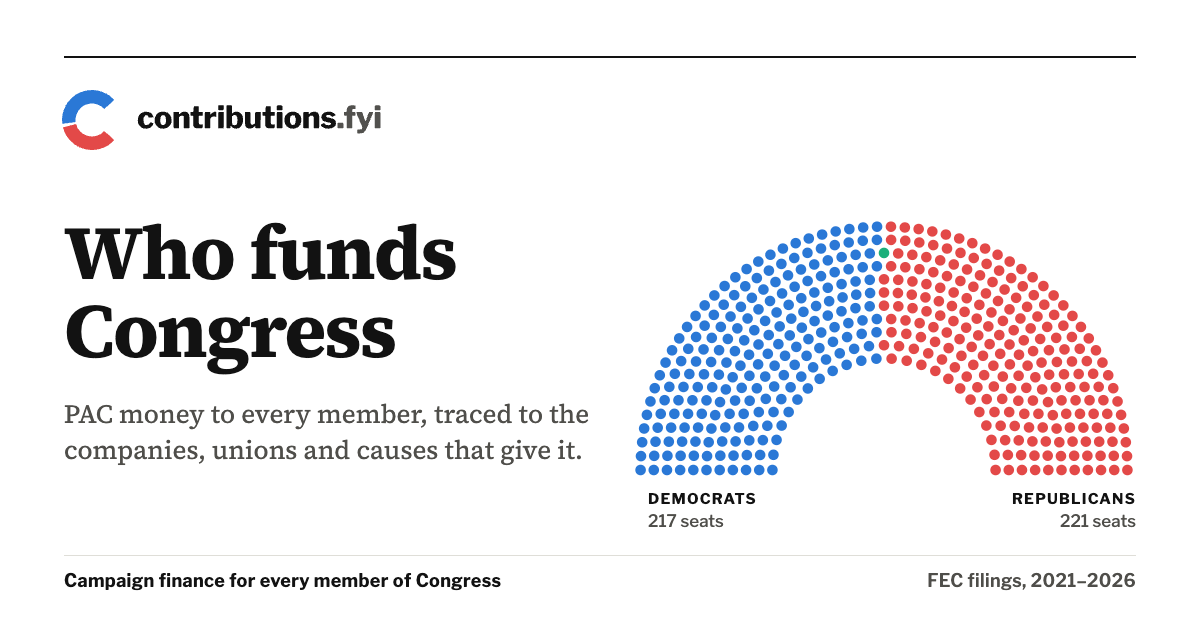
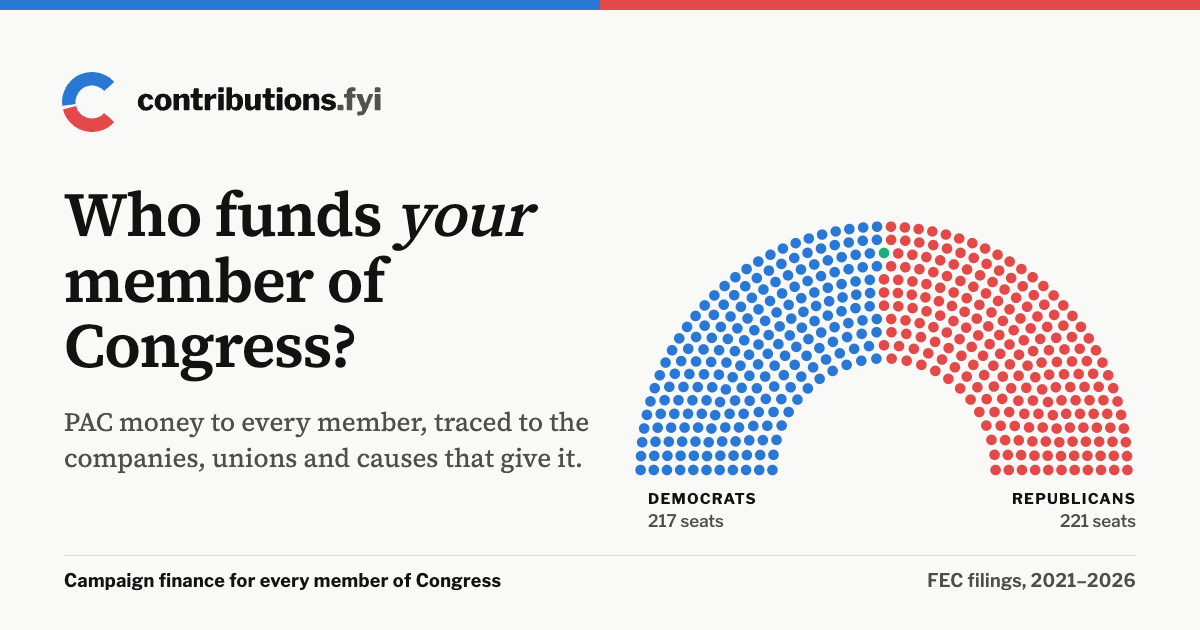
Rebrand the site as contributions.fyi
The brand is contributions.fyi; "Who funds your member of Congress?" (the
Bluesky banner's line) is the tagline.

- Home hero: the tagline as the headline, "your" in italics; the home title
  and Open Graph/Twitter titles and description lead with it.
- Footer: the Donut C wordmark and tagline, and a link to the labeler,
  @contributions.fyi.
- Look and feel from the Bluesky banner and avatar: the blue/red split rule
  along the top of the masthead, the banner's off-white page, and black
  single-series bars like its sector chart (PAC money beside a mid-gray
  second series on member pages). Party colors re-validated on the new page
  colour; text tokens all clear AA.
- The 1200×630 card gets the split rule, off-white and the tagline.

diff --git a/design/og/og-card.html b/design/og/og-card.html
@@ -10,24 +10,25 @@
 @font-face { font-family: "Source Serif 4"; src: url("../../site/public/fonts/source-serif-4-latin-wght-normal.woff2") format("woff2-variations"); font-weight: 200 900; }
 @font-face { font-family: "Libre Franklin"; src: url("../../site/public/fonts/libre-franklin-latin-wght-normal.woff2") format("woff2-variations"); font-weight: 100 900; }
 * { margin: 0; box-sizing: border-box; }
-body { width: 1200px; height: 630px; background: #ffffff; color: #121212; position: relative; overflow: hidden; font-family: "Libre Franklin", Arial, sans-serif; }
-.rules { position: absolute; left: 64px; right: 64px; top: 56px; border-top: 2px solid #121212; box-shadow: 0 4px 0 -3px #121212; }
-.wordmark { position: absolute; left: 60px; top: 88px; height: 64px; width: auto; }
-h1 { position: absolute; left: 64px; top: 214px; width: 560px; font: 700 76px/1.02 "Source Serif 4", Georgia, serif; letter-spacing: -0.02em; }
-.dek { position: absolute; left: 64px; top: 396px; width: 540px; font: 400 26px/1.4 "Source Serif 4", Georgia, serif; color: #4f4e4a; }
+body { width: 1200px; height: 630px; background: #f9f9f7; color: #121212; position: relative; overflow: hidden; font-family: "Libre Franklin", Arial, sans-serif; }
+.split { position: absolute; left: 0; right: 0; top: 0; height: 10px; background: linear-gradient(90deg, #2a78d6 0 50%, #e34948 50% 100%); }
+.wordmark { position: absolute; left: 60px; top: 70px; height: 64px; width: auto; }
+h1 { position: absolute; left: 64px; top: 182px; width: 560px; font: 600 62px/1.06 "Source Serif 4", Georgia, serif; letter-spacing: -0.015em; }
+h1 em { font-style: italic; font-weight: 500; }
+.dek { position: absolute; left: 64px; top: 404px; width: 540px; font: 400 26px/1.4 "Source Serif 4", Georgia, serif; color: #4f4e4a; }
 .foot { position: absolute; left: 64px; right: 64px; bottom: 40px; padding-top: 16px; border-top: 1px solid #dfded8; display: flex; justify-content: space-between; font: 600 18px/1 "Libre Franklin", Arial, sans-serif; color: #4f4e4a; letter-spacing: 0.02em; }
 .foot b { color: #121212; font-weight: 700; }
 #seats { position: absolute; right: 56px; top: 210px; }
 .label { position: absolute; top: 492px; font: 700 15px/1 "Libre Franklin", Arial, sans-serif; letter-spacing: 0.08em; text-transform: uppercase; color: #121212; }
 .label span { display: block; margin-top: 6px; font-weight: 500; letter-spacing: 0; text-transform: none; font-size: 17px; color: #4f4e4a; }
 </style></head><body>
-<div class="rules"></div>
+<div class="split"></div>
 <svg class="wordmark" xmlns="http://www.w3.org/2000/svg" viewBox="-4 -4 645 128" role="img" aria-label="contributions.fyi">
 
 <path fill="#e34948" d="M104.59 100.15A60 60 0 0 1 1.85 74.78L28.02 68.13A33 33 0 0 0 84.52 82.08Z"/><path fill="#2a78d6" d="M0.48 67.58A60 60 0 0 1 104.59 19.85L84.52 37.92A33 33 0 0 0 27.26 64.17Z"/><path fill="#121212" d="M168.48 43.26L168.48 43.26Q172.69 43.26 175.67 44.78Q178.64 46.30 180.44 48.59Q182.24 50.89 182.86 53.24L182.86 53.24Q183.11 53.99 182.80 54.36L182.80 54.36Q182.55 54.73 181.87 54.73L181.87 54.73L174.37 55.23Q173.56 55.35 173.37 54.48L173.37 54.48Q173.00 53.49 172.54 52.53Q172.07 51.57 171.17 50.95Q170.27 50.33 168.79 50.33L168.79 50.33Q166.99 50.33 165.62 51.38Q164.26 52.44 163.52 54.64Q162.77 56.84 162.77 60.31L162.77 60.31Q162.77 63.84 163.58 66.11Q164.38 68.37 165.87 69.39Q167.36 70.42 169.34 70.42L169.34 70.42Q171.95 70.42 173.34 68.99Q174.74 67.56 176.04 65.33L176.04 65.33Q176.16 65.08 176.41 64.99Q176.66 64.90 177.22 65.02L177.22 65.02L182.43 66.14Q182.67 66.20 182.86 66.39L182.86 66.39Q183.11 66.70 182.92 67.44L182.92 67.44Q182.55 68.68 181.56 70.39Q180.57 72.09 178.86 73.67Q177.16 75.25 174.58 76.31Q172.01 77.36 168.48 77.36L168.48 77.36Q163.58 77.36 159.76 75.22Q155.95 73.08 153.78 69.27Q151.61 65.46 151.61 60.43L151.61 60.43Q151.61 55.29 153.81 51.44Q156.01 47.60 159.83 45.43Q163.64 43.26 168.48 43.26ZM202.14 77.36L202.14 77.36Q197.12 77.36 193.31 75.19Q189.49 73.02 187.35 69.21Q185.22 65.39 185.22 60.50L185.22 60.50Q185.22 55.29 187.45 51.41Q189.68 47.54 193.52 45.40Q197.37 43.26 202.20 43.26L202.20 43.26Q207.29 43.26 211.10 45.49Q214.91 47.72 217.05 51.60Q219.19 55.47 219.19 60.50L219.19 60.50Q219.19 65.39 217.02 69.21Q214.85 73.02 211.04 75.19Q207.23 77.36 202.14 77.36L202.14 77.36ZM202.20 70.17L202.20 70.17Q204.19 70.17 205.49 69.11Q206.79 68.06 207.41 65.83Q208.03 63.60 208.03 60.25L208.03 60.25Q208.03 56.84 207.38 54.61Q206.73 52.37 205.46 51.29Q204.19 50.20 202.20 50.20L202.20 50.20Q200.28 50.20 198.95 51.29Q197.62 52.37 197.00 54.61Q196.38 56.84 196.38 60.25L196.38 60.25Q196.38 63.66 197.00 65.86Q197.62 68.06 198.95 69.11Q200.28 70.17 202.20 70.17L202.20 70.17ZM232.34 76.74L224.65 76.74Q223.16 76.74 223.16 75.31L223.16 75.31L223.16 45.18Q223.16 43.88 224.21 43.88L224.21 43.88L233.02 43.88Q234.07 43.88 234.07 45.00L234.07 45.00L234.07 47.97Q234.07 48.34 234.26 48.44Q234.44 48.53 234.82 48.22L234.82 48.22Q236.24 46.73 237.85 45.62Q239.47 44.50 241.23 43.88Q243.00 43.26 244.98 43.26L244.98 43.26Q249.39 43.26 252.08 45.96Q254.78 48.65 254.78 53.18L254.78 53.18L254.78 75.07Q254.78 76.74 253.04 76.74L253.04 76.74L245.05 76.74Q244.30 76.74 244.02 76.43Q243.74 76.12 243.74 75.31L243.74 75.31L243.74 54.73Q243.74 52.99 242.72 52.06Q241.70 51.13 239.84 51.13L239.84 51.13Q238.72 51.13 237.76 51.51Q236.80 51.88 235.93 52.65Q235.06 53.43 234.20 54.61L234.20 54.61L234.20 75.13Q234.20 76.74 232.34 76.74L232.34 76.74ZM280.26 51.38L274.12 51.38Q273.38 51.38 273.38 52.13L273.38 52.13L273.38 65.52Q273.38 67.38 274.40 68.25Q275.43 69.11 277.66 69.11L277.66 69.11L280.63 69.11Q281.07 69.11 281.35 69.46Q281.63 69.80 281.63 70.23L281.63 70.23L281.56 74.69Q281.56 76.00 279.95 76.31L279.95 76.31Q278.77 76.49 277.41 76.59Q276.05 76.68 274.71 76.71Q273.38 76.74 272.08 76.74L272.08 76.74Q267.74 76.74 265.04 74.66Q262.34 72.59 262.34 68.62L262.34 68.62L262.34 52.44Q262.34 51.38 261.48 51.38L261.48 51.38L258.13 51.38Q256.76 51.38 256.76 50.14L256.76 50.14L256.76 44.93Q256.76 43.88 258.00 43.88L258.00 43.88L261.97 43.88Q262.59 43.88 262.65 43.20L262.65 43.20L263.58 33.90Q263.71 32.72 264.64 32.72L264.64 32.72L272.57 32.72Q273.69 32.72 273.69 33.96L273.69 33.96L273.69 43.20Q273.69 43.82 274.31 43.82L274.31 43.82L280.45 43.82Q281.69 43.82 281.69 44.87L281.69 44.87L281.69 50.14Q281.69 51.38 280.26 51.38L280.26 51.38ZM294.89 76.74L287.21 76.74Q286.34 76.74 286.03 76.40Q285.72 76.06 285.72 75.31L285.72 75.31L285.72 45.18Q285.72 43.88 286.77 43.88L286.77 43.88L295.33 43.88Q296.32 43.88 296.32 45.00L296.32 45.00L296.32 48.59Q296.32 49.03 296.66 49.12Q297.00 49.21 297.31 48.78L297.31 48.78Q298.43 47.17 299.98 45.93Q301.53 44.69 303.26 43.97Q305.00 43.26 306.43 43.26L306.43 43.26Q308.72 43.26 308.72 44.44L308.72 44.44L308.72 52.75Q308.72 53.37 308.41 53.55L308.41 53.55Q308.16 53.80 307.60 53.68L307.60 53.68Q306.36 53.37 304.97 53.21Q303.57 53.06 302.77 53.06L302.77 53.06Q301.65 53.06 300.60 53.46Q299.54 53.86 298.64 54.54Q297.75 55.23 297.25 56.09Q296.75 56.96 296.75 57.83L296.75 57.83L296.75 75.13Q296.75 76.74 294.89 76.74L294.89 76.74ZM323.48 45.06L323.48 75.07Q323.48 76.00 323.04 76.37Q322.61 76.74 321.62 76.74L321.62 76.74L313.93 76.74Q313.06 76.74 312.75 76.40Q312.44 76.06 312.44 75.31L312.44 75.31L312.44 45.18Q312.44 43.88 313.56 43.88L313.56 43.88L322.42 43.88Q323.48 43.88 323.48 45.06L323.48 45.06ZM323.54 31.98L323.54 38.86Q323.54 40.53 321.62 40.53L321.62 40.53L313.87 40.53Q313.00 40.53 312.69 40.16Q312.38 39.79 312.38 39.04L312.38 39.04L312.38 32.10Q312.38 30.74 313.49 30.74L313.49 30.74L322.42 30.74Q323.54 30.74 323.54 31.98L323.54 31.98ZM335.07 76.74L330.36 76.74Q329.43 76.74 329.12 76.40Q328.81 76.06 328.81 75.31L328.81 75.31L328.81 32.04Q328.81 30.74 329.92 30.74L329.92 30.74L338.79 30.74Q339.84 30.74 339.84 31.98L339.84 31.98L339.84 46.11Q339.84 46.86 340.18 46.92Q340.53 46.98 340.96 46.61L340.96 46.61Q342.14 45.49 343.41 44.78Q344.68 44.07 346.14 43.66Q347.59 43.26 349.21 43.26L349.21 43.26Q353.36 43.26 356.21 45.34Q359.06 47.41 360.58 51.20Q362.10 54.98 362.10 60.06L362.10 60.06Q362.10 67.94 358.44 72.65Q354.79 77.36 348.03 77.36L348.03 77.36Q345.92 77.36 344.09 76.68Q342.26 76.00 340.80 74.82Q339.35 73.64 338.23 72.28L338.23 72.28Q337.98 71.97 337.80 72.03Q337.61 72.09 337.49 72.46L337.49 72.46L336.62 75.38Q336.25 76.74 335.07 76.74L335.07 76.74ZM339.84 52.99L339.84 65.33Q339.84 67.01 340.53 68.25Q341.21 69.49 342.42 70.14Q343.63 70.79 345.05 70.79L345.05 70.79Q346.91 70.79 348.21 69.77Q349.52 68.74 350.23 66.42Q350.94 64.09 350.94 60.31L350.94 60.31Q350.94 54.73 349.48 52.41Q348.03 50.08 345.30 50.08L345.30 50.08Q343.63 50.08 342.26 50.89Q340.90 51.69 339.84 52.99L339.84 52.99ZM380.58 69.55L380.58 69.55Q382.19 69.55 383.65 68.68Q385.10 67.81 386.22 66.45L386.22 66.45L386.22 45.49Q386.22 43.88 388.08 43.88L388.08 43.88L395.89 43.88Q397.38 43.88 397.38 45.37L397.38 45.37L397.13 75.50Q397.13 76.74 396.08 76.74L396.08 76.74L387.46 76.74Q386.41 76.74 386.41 75.62L386.41 75.62L386.41 72.71Q386.41 72.34 386.22 72.25Q386.03 72.15 385.72 72.46L385.72 72.46Q383.37 75.00 380.79 76.18Q378.22 77.36 375.25 77.36L375.25 77.36Q372.52 77.36 370.41 76.15Q368.30 74.94 367.06 72.65Q365.82 70.35 365.82 67.19L365.82 67.19L365.82 45.55Q365.82 43.88 367.56 43.88L367.56 43.88L375.56 43.88Q376.86 43.88 376.86 45.37L376.86 45.37L376.86 65.83Q376.86 67.56 377.88 68.56Q378.90 69.55 380.58 69.55L380.58 69.55ZM424.29 51.38L418.15 51.38Q417.41 51.38 417.41 52.13L417.41 52.13L417.41 65.52Q417.41 67.38 418.43 68.25Q419.45 69.11 421.68 69.11L421.68 69.11L424.66 69.11Q425.09 69.11 425.37 69.46Q425.65 69.80 425.65 70.23L425.65 70.23L425.59 74.69Q425.59 76.00 423.98 76.31L423.98 76.31Q422.80 76.49 421.44 76.59Q420.07 76.68 418.74 76.71Q417.41 76.74 416.10 76.74L416.10 76.74Q411.76 76.74 409.07 74.66Q406.37 72.59 406.37 68.62L406.37 68.62L406.37 52.44Q406.37 51.38 405.50 51.38L405.50 51.38L402.15 51.38Q400.79 51.38 400.79 50.14L400.79 50.14L400.79 44.93Q400.79 43.88 402.03 43.88L402.03 43.88L406.00 43.88Q406.62 43.88 406.68 43.20L406.68 43.20L407.61 33.90Q407.73 32.72 408.66 32.72L408.66 32.72L416.60 32.72Q417.72 32.72 417.72 33.96L417.72 33.96L417.72 43.20Q417.72 43.82 418.34 43.82L418.34 43.82L424.47 43.82Q425.71 43.82 425.71 44.87L425.71 44.87L425.71 50.14Q425.71 51.38 424.29 51.38L424.29 51.38ZM440.78 45.06L440.78 75.07Q440.78 76.00 440.35 76.37Q439.91 76.74 438.92 76.74L438.92 76.74L431.23 76.74Q430.36 76.74 430.05 76.40Q429.74 76.06 429.74 75.31L429.74 75.31L429.74 45.18Q429.74 43.88 430.86 43.88L430.86 43.88L439.73 43.88Q440.78 43.88 440.78 45.06L440.78 45.06ZM440.84 31.98L440.84 38.86Q440.84 40.53 438.92 40.53L438.92 40.53L431.17 40.53Q430.30 40.53 429.99 40.16Q429.68 39.79 429.68 39.04L429.68 39.04L429.68 32.10Q429.68 30.74 430.80 30.74L430.80 30.74L439.73 30.74Q440.84 30.74 440.84 31.98L440.84 31.98ZM461.67 77.36L461.67 77.36Q456.65 77.36 452.84 75.19Q449.03 73.02 446.89 69.21Q444.75 65.39 444.75 60.50L444.75 60.50Q444.75 55.29 446.98 51.41Q449.21 47.54 453.06 45.40Q456.90 43.26 461.74 43.26L461.74 43.26Q466.82 43.26 470.63 45.49Q474.45 47.72 476.58 51.60Q478.72 55.47 478.72 60.50L478.72 60.50Q478.72 65.39 476.55 69.21Q474.38 73.02 470.57 75.19Q466.76 77.36 461.67 77.36L461.67 77.36ZM461.74 70.17L461.74 70.17Q463.72 70.17 465.02 69.11Q466.32 68.06 466.94 65.83Q467.56 63.60 467.56 60.25L467.56 60.25Q467.56 56.84 466.91 54.61Q466.26 52.37 464.99 51.29Q463.72 50.20 461.74 50.20L461.74 50.20Q459.81 50.20 458.48 51.29Q457.15 52.37 456.53 54.61Q455.91 56.84 455.91 60.25L455.91 60.25Q455.91 63.66 456.53 65.86Q457.15 68.06 458.48 69.11Q459.81 70.17 461.74 70.17L461.74 70.17ZM491.87 76.74L484.18 76.74Q482.69 76.74 482.69 75.31L482.69 75.31L482.69 45.18Q482.69 43.88 483.75 43.88L483.75 43.88L492.55 43.88Q493.60 43.88 493.60 45.00L493.60 45.00L493.60 47.97Q493.60 48.34 493.79 48.44Q493.98 48.53 494.35 48.22L494.35 48.22Q495.77 46.73 497.39 45.62Q499.00 44.50 500.76 43.88Q502.53 43.26 504.52 43.26L504.52 43.26Q508.92 43.26 511.61 45.96Q514.31 48.65 514.31 53.18L514.31 53.18L514.31 75.07Q514.31 76.74 512.58 76.74L512.58 76.74L504.58 76.74Q503.83 76.74 503.55 76.43Q503.28 76.12 503.28 75.31L503.28 75.31L503.28 54.73Q503.28 52.99 502.25 52.06Q501.23 51.13 499.37 51.13L499.37 51.13Q498.25 51.13 497.29 51.51Q496.33 51.88 495.46 52.65Q494.60 53.43 493.73 54.61L493.73 54.61L493.73 75.13Q493.73 76.74 491.87 76.74L491.87 76.74ZM539.67 52.87L539.67 52.87Q538.68 51.69 537.07 50.73Q535.45 49.77 532.97 49.77L532.97 49.77Q531.05 49.77 529.69 50.48Q528.32 51.20 528.32 52.56L528.32 52.56Q528.32 53.12 528.82 53.71Q529.32 54.30 531.24 54.73L531.24 54.73L538.06 56.28Q543.58 57.46 545.81 60.25Q548.04 63.04 548.04 66.51L548.04 66.51Q548.04 69.92 546.12 72.37Q544.20 74.82 540.75 76.09Q537.31 77.36 532.79 77.36L532.79 77.36Q527.02 77.36 523.12 75.38Q519.21 73.39 517.66 70.60L517.66 70.60Q517.41 70.11 517.41 69.64Q517.41 69.18 517.78 68.93L517.78 68.93L522.62 66.45Q523.36 66.14 523.74 66.20Q524.11 66.26 524.36 66.57L524.36 66.57Q525.16 67.56 526.15 68.46Q527.15 69.36 528.76 69.95Q530.37 70.54 532.85 70.48L532.85 70.48Q534.34 70.42 535.58 70.11Q536.82 69.80 537.53 69.18Q538.24 68.56 538.24 67.63L538.24 67.63Q538.24 66.82 537.56 66.20Q536.88 65.58 534.77 65.15L534.77 65.15L528.45 63.91Q523.74 62.98 521.22 60.62Q518.71 58.26 518.65 54.30L518.65 54.30Q518.65 51.13 520.33 48.62Q522.00 46.11 525.25 44.69Q528.51 43.26 533.10 43.26L533.10 43.26Q538.00 43.26 541.50 45.03Q545.00 46.79 546.43 49.15L546.43 49.15Q546.74 49.58 546.89 50.08Q547.05 50.58 546.43 50.82L546.43 50.82L541.34 53.30Q540.79 53.55 540.41 53.43Q540.04 53.30 539.67 52.87L539.67 52.87Z"/><path fill="#52514e" d="M562.80 66.45L562.80 75.07Q562.80 76.74 560.94 76.74L560.94 76.74L552.63 76.74Q551.08 76.74 551.08 75.31L551.08 75.31L551.08 66.57Q551.08 65.33 552.13 65.33L552.13 65.33L561.80 65.33Q562.80 65.33 562.80 66.45L562.80 66.45ZM581.02 43.88L585.55 43.88Q586.29 43.88 586.60 44.25Q586.91 44.62 586.91 45.12L586.91 45.12L586.91 50.33Q586.91 51.38 585.74 51.38L585.74 51.38L581.27 51.38Q580.59 51.38 580.59 52.13L580.59 52.13L580.59 75.50Q580.59 76.74 579.47 76.74L579.47 76.74L570.55 76.74Q569.55 76.74 569.55 75.56L569.55 75.56L569.55 52.00Q569.55 51.38 569.06 51.38L569.06 51.38L565.09 51.38Q563.85 51.38 563.85 50.33L563.85 50.33L563.85 45.12Q563.85 44.62 564.16 44.25Q564.47 43.88 565.21 43.88L565.21 43.88L568.75 43.88Q569.55 43.88 569.55 42.89L569.55 42.89L569.55 39.35Q569.55 35.32 572.03 33.03Q574.51 30.74 578.92 30.74L578.92 30.74L585.61 30.74Q587.22 30.74 587.22 32.16L587.22 32.16L587.22 36.87Q587.22 37.31 586.98 37.65Q586.73 37.99 586.23 37.99L586.23 37.99L583.26 37.99Q582.02 37.99 581.15 38.98Q580.28 39.97 580.28 41.40L580.28 41.40L580.28 43.14Q580.28 43.88 581.02 43.88L581.02 43.88ZM593.92 86.97L593.92 86.97Q592.00 86.97 591.19 86.75Q590.39 86.54 590.39 85.73L590.39 85.73L590.39 80.15Q590.39 79.72 590.76 79.38Q591.13 79.03 592.12 79.03L592.12 79.03L596.40 79.03Q597.52 79.03 598.45 78.60Q599.38 78.17 599.93 77.55Q600.49 76.93 600.71 76.18Q600.93 75.44 600.68 74.76L600.68 74.76L588.65 45.55Q588.46 44.87 588.77 44.38Q589.08 43.88 589.77 43.88L589.77 43.88L598.94 43.88Q599.50 43.88 599.90 44.22Q600.31 44.56 600.49 45.00L600.49 45.00L606.51 61.61Q606.69 62.17 607.00 62.20Q607.31 62.23 607.56 61.61L607.56 61.61L613.57 45.00Q613.82 44.56 614.19 44.22Q614.57 43.88 615.06 43.88L615.06 43.88L621.26 43.88Q621.94 43.88 622.22 44.38Q622.50 44.87 622.25 45.49L622.25 45.49L609.85 75.75Q608.37 79.34 606.88 81.55Q605.39 83.75 603.59 84.92Q601.79 86.10 599.44 86.54Q597.08 86.97 593.92 86.97L593.92 86.97ZM636.76 45.06L636.76 75.07Q636.76 76.00 636.33 76.37Q635.89 76.74 634.90 76.74L634.90 76.74L627.21 76.74Q626.35 76.74 626.04 76.40Q625.73 76.06 625.73 75.31L625.73 75.31L625.73 45.18Q625.73 43.88 626.84 43.88L626.84 43.88L635.71 43.88Q636.76 43.88 636.76 45.06L636.76 45.06ZM636.82 31.98L636.82 38.86Q636.82 40.53 634.90 40.53L634.90 40.53L627.15 40.53Q626.28 40.53 625.97 40.16Q625.66 39.79 625.66 39.04L625.66 39.04L625.66 32.10Q625.66 30.74 626.78 30.74L626.78 30.74L635.71 30.74Q636.82 30.74 636.82 31.98L636.82 31.98Z"/>
 </svg>
 
-<h1>Who funds Congress</h1>
+<h1>Who funds <em>your</em> member of Congress?</h1>
 <p class="dek">PAC money to every member, traced to the companies, unions and causes that give it.</p>
 <svg id="seats" width="520" height="270" viewBox="-1.04 -1.04 2.08 1.08" aria-hidden="true"></svg>
 <div class="label" style="left: 648px">Democrats<span>217 seats</span></div>

diff --git a/site/src/styles/global.css b/site/src/styles/global.css
@@ -132,9 +132,10 @@
   --sp-8: 64px;
   --section-gap: clamp(40px, 6vw, 64px);
 
-  --page: #ffffff;
+  /* The off-white of the Bluesky banner and avatar. */
+  --page: #f9f9f7;
   --surface: #ffffff;
-  --surface-2: #f6f5f1;
+  --surface-2: #efeee9;
   --text-primary: #121212;
   --text-secondary: #4f4e4a;
   --text-muted: #6b6a65;
@@ -146,10 +147,11 @@
   --link-underline: #b9b8b0;
   --shadow: 0 8px 28px rgba(18, 18, 18, 0.14), 0 1px 3px rgba(18, 18, 18, 0.08);
 
-  /* single-series bars: neutral ink, so they never read as a party */
-  --bar: #75746e;
+  /* single-series bars: black, like the banner's sector chart, so they never
+     read as a party; --bar-muted is the second series beside them */
+  --bar: #121212;
   --bar-strong: #121212;
-  --bar-ink: #34332f;
+  --bar-muted: #8a8983;
   --context: #d6d5ce;
 
   /* the one non-party emphasis hue (categorical slot 2) */
@@ -166,7 +168,7 @@
   --on-i: #121212;
   --on-r: #121212;
   --on-bar: #ffffff;
-  --on-bar-ink: #ffffff;
+  --on-bar-muted: #121212;
   --on-accent: #121212;
   --on-support: #ffffff;
   --on-context: #121212;
@@ -190,9 +192,9 @@
     --link-underline: #5c5b56;
     --shadow: 0 8px 28px rgba(0, 0, 0, 0.6), 0 0 0 1px rgba(255, 255, 255, 0.08);
 
-    --bar: #8f8e88;
-    --bar-strong: #f2f2ee;
-    --bar-ink: #cfcec6;
+    --bar: #e8e7e2;
+    --bar-strong: #e8e7e2;
+    --bar-muted: #6f6e69;
     --context: #3b3b38;
     --accent: #d95926;
     --support: #9085e9;
@@ -202,7 +204,7 @@
     --party-i: #199e70;
     --party-r: #e66767;
     --on-bar: #121212;
-    --on-bar-ink: #121212;
+    --on-bar-muted: #f2f2ee;
     --on-support: #121212;
     --on-context: #f2f2ee;
   }
@@ -251,6 +253,11 @@ main:focus { outline: none; }
 
 /* --- masthead --- */
 .masthead { border-bottom: 1px solid var(--rule); box-shadow: 0 3px 0 -2px var(--rule); margin-bottom: var(--sp-7); }
+/* The blue/red split rule from the Bluesky banner. */
+.masthead::before {
+  content: ""; display: block; height: 5px;
+  background: linear-gradient(90deg, var(--party-d) 0 50%, var(--party-r) 50% 100%);
+}
 .masthead-row {
   display: flex; align-items: center; justify-content: space-between; gap: var(--sp-3) var(--sp-5);
   padding-top: var(--sp-4); padding-bottom: var(--sp-3);
@@ -277,7 +284,10 @@ main:focus { outline: none; }
 .site-footer { margin-top: var(--sp-8); border-top: 1px solid var(--rule); color: var(--text-muted); font-size: var(--fs-sm); }
 .footer-grid { display: grid; grid-template-columns: auto 1fr auto; gap: var(--sp-3) var(--sp-6); padding-top: var(--sp-5); padding-bottom: var(--sp-7); align-items: baseline; }
 .footer-grid p { margin: 0; }
-.footer-brand { font: 700 var(--fs-md)/1 var(--serif); color: var(--text-primary); }
+.footer-brand { display: flex; flex-direction: column; gap: var(--sp-2); }
+.footer-brand .logo { display: block; height: 28px; width: auto; aspect-ratio: 645 / 128; }
+.footer-tagline { font: 400 var(--fs-base)/1.3 var(--serif); color: var(--text-secondary); }
+.footer-tagline em, .tagline em { font-style: italic; }
 
 /* --- headlines --- */
 .kicker {
